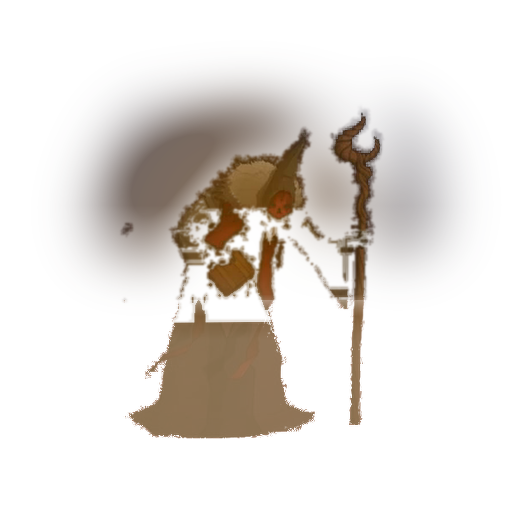
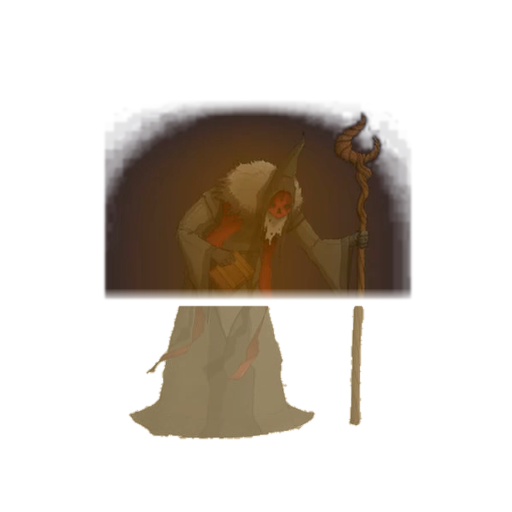
Finalize 2021 Lose result artwork

diff --git a/research/proofs/result-art-cleanup-20260904/PROOF.md b/research/proofs/result-art-cleanup-20260904/PROOF.md
@@ -82,24 +82,26 @@ Feature matching against the visible Result Mage validates identity/geometry at 
 
 Only the lower character pixels hidden by the Result DOM are patched from that first-party period image. Their color transform is fitted from the overlapping visible period Mage. This is explicitly reconstruction, not a claim that the derived file equals the missing hashed response.
 
-### Browser-vision rejection and final seam correction
+### Browser-vision rejection sequence and final correction
 
[1 lines of base64/hex data omitted]
 
-The final reconstruction removes that screenshot boundary without inventing character geometry:
+The next derivative (`084806d7...`) removed the rectangular seam, but real-browser QA on Preview commit `40fadde` exposed broad blue/gray sheet-background contamination inside the Mage silhouette. The runtime screenshot is `research/browser-regression/2026-09-04-preview-40fadde-result-lose-final.png`. That rejected derivative is preserved at `archive/pre-result-sheet-artifact-fix-20260904/You lose.00f95b2b.png`.
 
-1. the **upper Mage** retains the aligned period Result pixels only inside the independently mapped Mage support;
-2. the **lower Mage**, hidden by reward-row DOM in surviving captures, comes from the first-party Level-2 Skull Mage using the same proven geometry and affine color fit;
-3. upper-period and lower-first-party character layers crossfade through approximately y=265..340, centered on the separately-rendered reward separator;
-4. the **orange glow only** is reconstructed as a smooth field from trusted period pixels above the separator, excluding Mage and DOM support, so no screenshot crop/rectangle can survive;
-5. the exact recovered modal background and exact reward separator are then used for a layer-order simulation before runtime promotion.
+The final reconstruction removes both failure modes without inventing character geometry:
 
-The final exact-modal simulation is locally preserved as `research/read-image-audit-20260904/result-clean-candidates/final/lose-clean6-a72-on-modal.png`; the compact committed comparison `evidence/lose-runtime-vs-period.jpg` shows the surviving period Result beside this final simulation. The character remains evidence-derived; only hidden/occluded glow/lower-body pixels are reconstructed.
+1. the **upper Mage + glow** are retained directly from the aligned 2021 Result frame, with support computed from pixel difference against the exact recovered modal background; this removes modal/background pixels instead of using a rectangular crop;
+2. the upper period layer stops just above the separately-rendered reward separator, so no captured separator/title/reward-row pixels can enter the runtime image;
+3. the **lower Mage**, which surviving Result captures hide behind reward-row DOM, comes from the first-party Level-2 Skull Mage using the same independently validated geometry and a color fit derived from visible overlap;
+4. lower-body extraction starts below the separator where the first-party sheet background is flat, avoiding the dark horizontal source-sheet band that contaminated the rejected `084806d7...` derivative;
+5. the exact recovered modal background and exact reward separator are used for a layer-order simulation before runtime promotion.
+
+The final exact-modal simulation is locally preserved as `research/read-image-audit-20260904/result-clean-candidates/final/lose-clean7-on-modal.png`; the compact committed comparison `evidence/lose-runtime-vs-period.jpg` shows the surviving period Result beside this final simulation. The character remains evidence-derived; only the lower body hidden by surviving DOM rows is reconstructed from the first-party source.
 
 Corrected runtime:
 
 - `static/media/You lose.00f95b2b.png`
[2 lines of base64/hex data omitted]
 - provenance: **RECONSTRUCTED_FROM_PERIOD_PIXELS**, not original bytes.
 
 ## Regression boundary

diff --git a/research/media_hunt/final-promotions/PROVENANCE.md b/research/media_hunt/final-promotions/PROVENANCE.md
@@ -45,7 +45,8 @@ This directory records the last six hashed media files that were unavailable as 
 - Corrected art uses the actual period Result Mage + orange glow above the reward separator. The lower Mage pixels hidden by reward-row DOM in the video are reconstructed from the first-party GitBook `Level 2 Skull Enemies.jpg`; SIFT against the period Result view validates the same artwork and target geometry (43/52 inliers at the stable fit before lower-patch use).
 - The lower first-party patch is color-fit only from visible overlapping period Mage pixels and is explicitly a period-derived reconstruction, not original hashed bytes.
[1 lines of base64/hex data omitted]
-- Final Lose reconstruction clips upper period pixels to the proven Mage support, crossfades to the first-party lower Mage through the separately-rendered separator region, and rebuilds only the glow as a smooth field from trusted period glow pixels. This removes the screenshot boundary without inventing new character geometry.
[1 lines of base64/hex data omitted]
+- Final Lose reconstruction now retains the visible upper Mage + glow directly from aligned period Result pixels, with support derived by differencing against the exact modal background. The upper period layer stops above the separately rendered reward separator. Only the lower Mage hidden by surviving reward-row DOM comes from the first-party GitBook source, and extraction begins below the separator where the source sheet background is flat. This removes both the crop seam and source-sheet contamination without inventing new character geometry.
 - See `research/proofs/result-art-cleanup-20260904/PROOF.md`.
 
 ## `fight.42bbd04e.png` — RECONSTRUCTED_FROM_PERIOD_PIXELS
@@ -63,7 +64,7 @@ This directory records the last six hashed media files that were unavailable as 
[6 lines of base64/hex data omitted]
 
 All previous runtime placeholders are preserved under `backups/`.

diff --git a/AI_IDE_HANDOFF.md b/AI_IDE_HANDOFF.md
@@ -1,3 +1,9 @@
+### 2026-09-04 read_image Lose-art finalization — newest safety checkpoint
[2 lines of base64/hex data omitted]
+- Exact-modal simulation: `research/read-image-audit-20260904/result-clean-candidates/final/lose-clean7-on-modal.png`; compact comparison committed through `research/proofs/result-art-cleanup-20260904/evidence/lose-runtime-vs-period.jpg`. Provenance remains `RECONSTRUCTED_FROM_PERIOD_PIXELS`, never `ORIGINAL_BYTES`.
+- Preservation verifier already PASSes the new runtime hash, both browser-rejected Lose archives, RESULT compact evidence, geometry and first-party identity thresholds. Immediate continuation from this checkpoint: run full `npm run forensics:all` -> curated commit/push only correction/proof/HANDOFF/archive (never mass-add the bulk untracked archaeology) -> clean Vercel Preview -> browser/read_image My Heroes + Win + Lose -> if all PASS promote that exact tested deployment to `bnbheroes-revival.vercel.app` -> write final production certification into HANDOFF/task ledger and push a docs-only closeout.
+
 ### 2026-09-04 read_image final-media correction — live safety checkpoint
 - Repo-local Git identity is now fixed for future automation: `Phu Tan <176453793+phutan01061984@users.noreply.github.com>`. The former `revival@local` identity caused Vercel to block CLI/Git deployments. Content-equivalent correction commit `902fbe8` was metadata-only amended to `f8f0e62`; both commits have identical tree `ed0b7447d6148956779a89de9755b65e25d4ca18`. Remote `restoration/native-ui-20260903` is at `f8f0e620a628d924e629cf7cef21eb31cdf2be65`.
 - Vercel CLI is authenticated to `phu-tans-projects`; clean commit `f8f0e62` deployed successfully as Preview `https://bnbheroes-revival-2xxmmgkqu-phu-tans-projects.vercel.app` (deployment `CoXtoD97JkS1bgjWmvVioe4Zrbtf`, Ready in ~10 s). Do not promote this exact preview to Production: browser vision found one remaining Lose-art seam described below.
